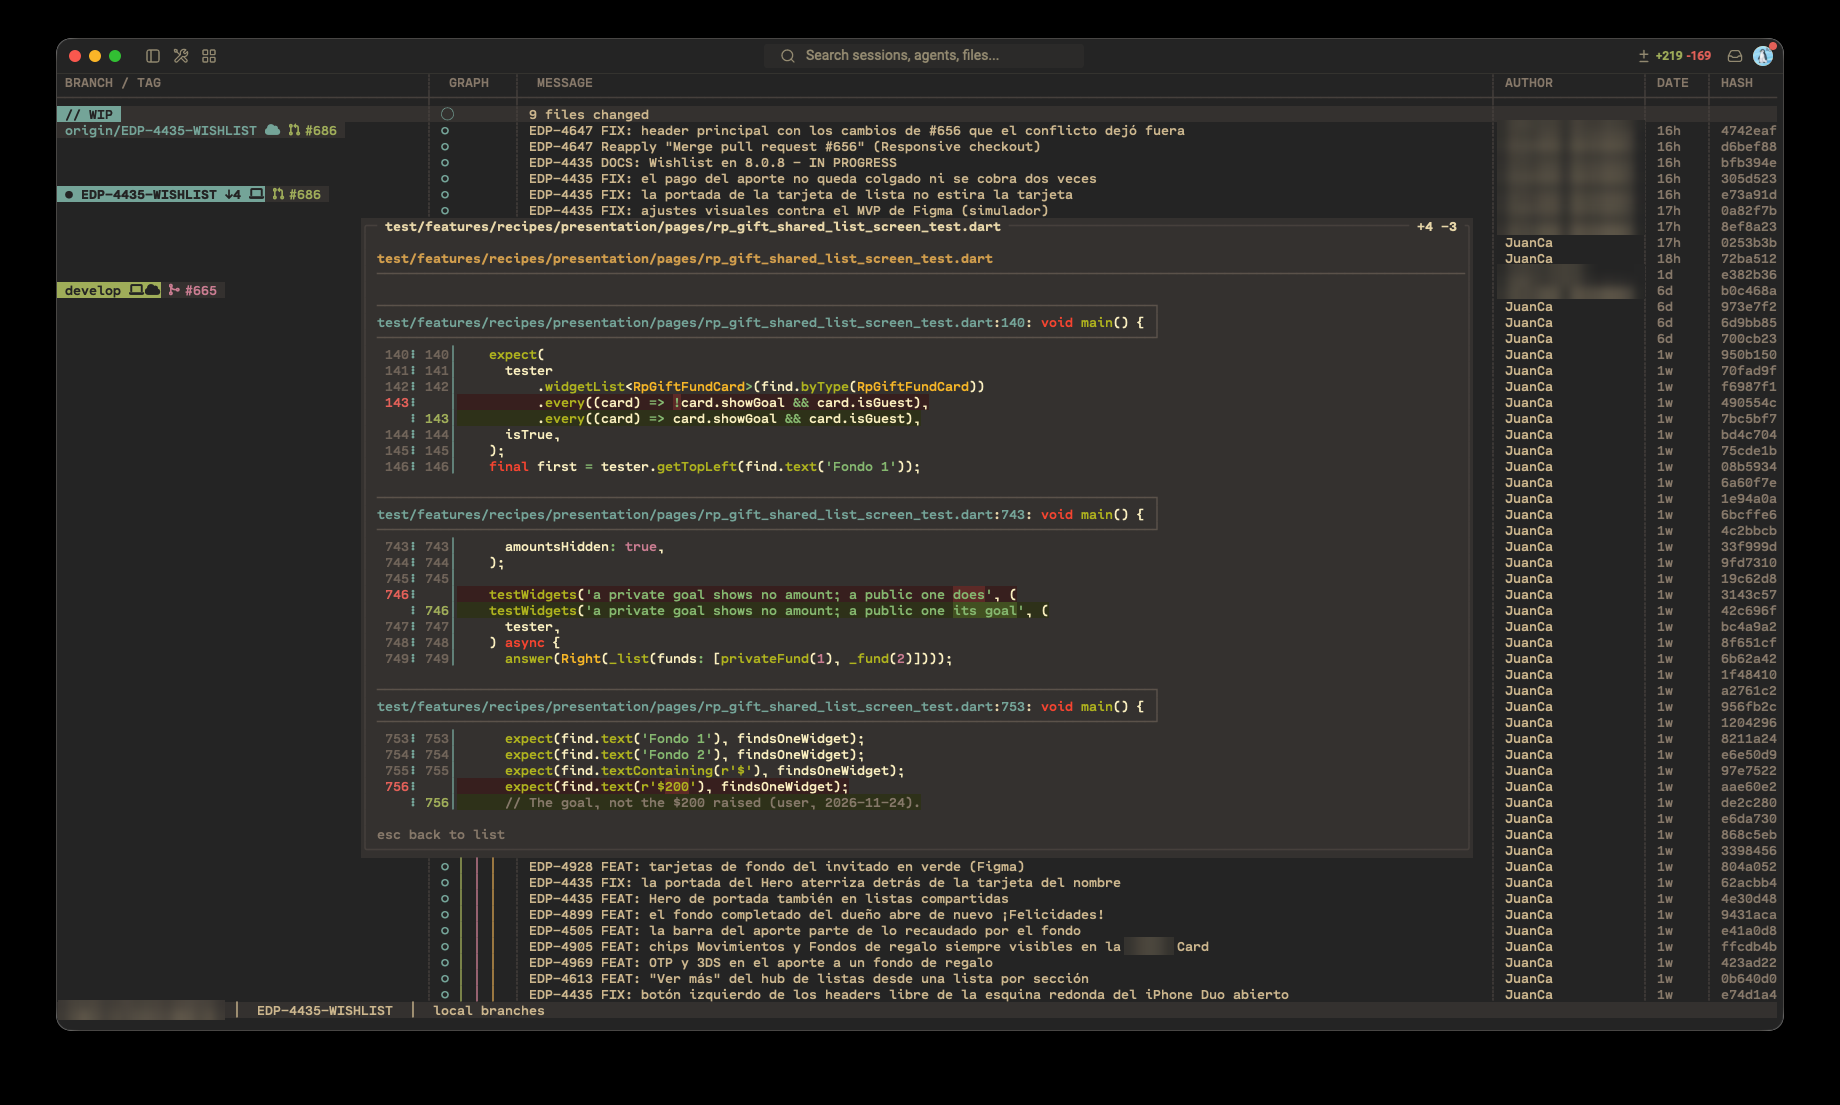
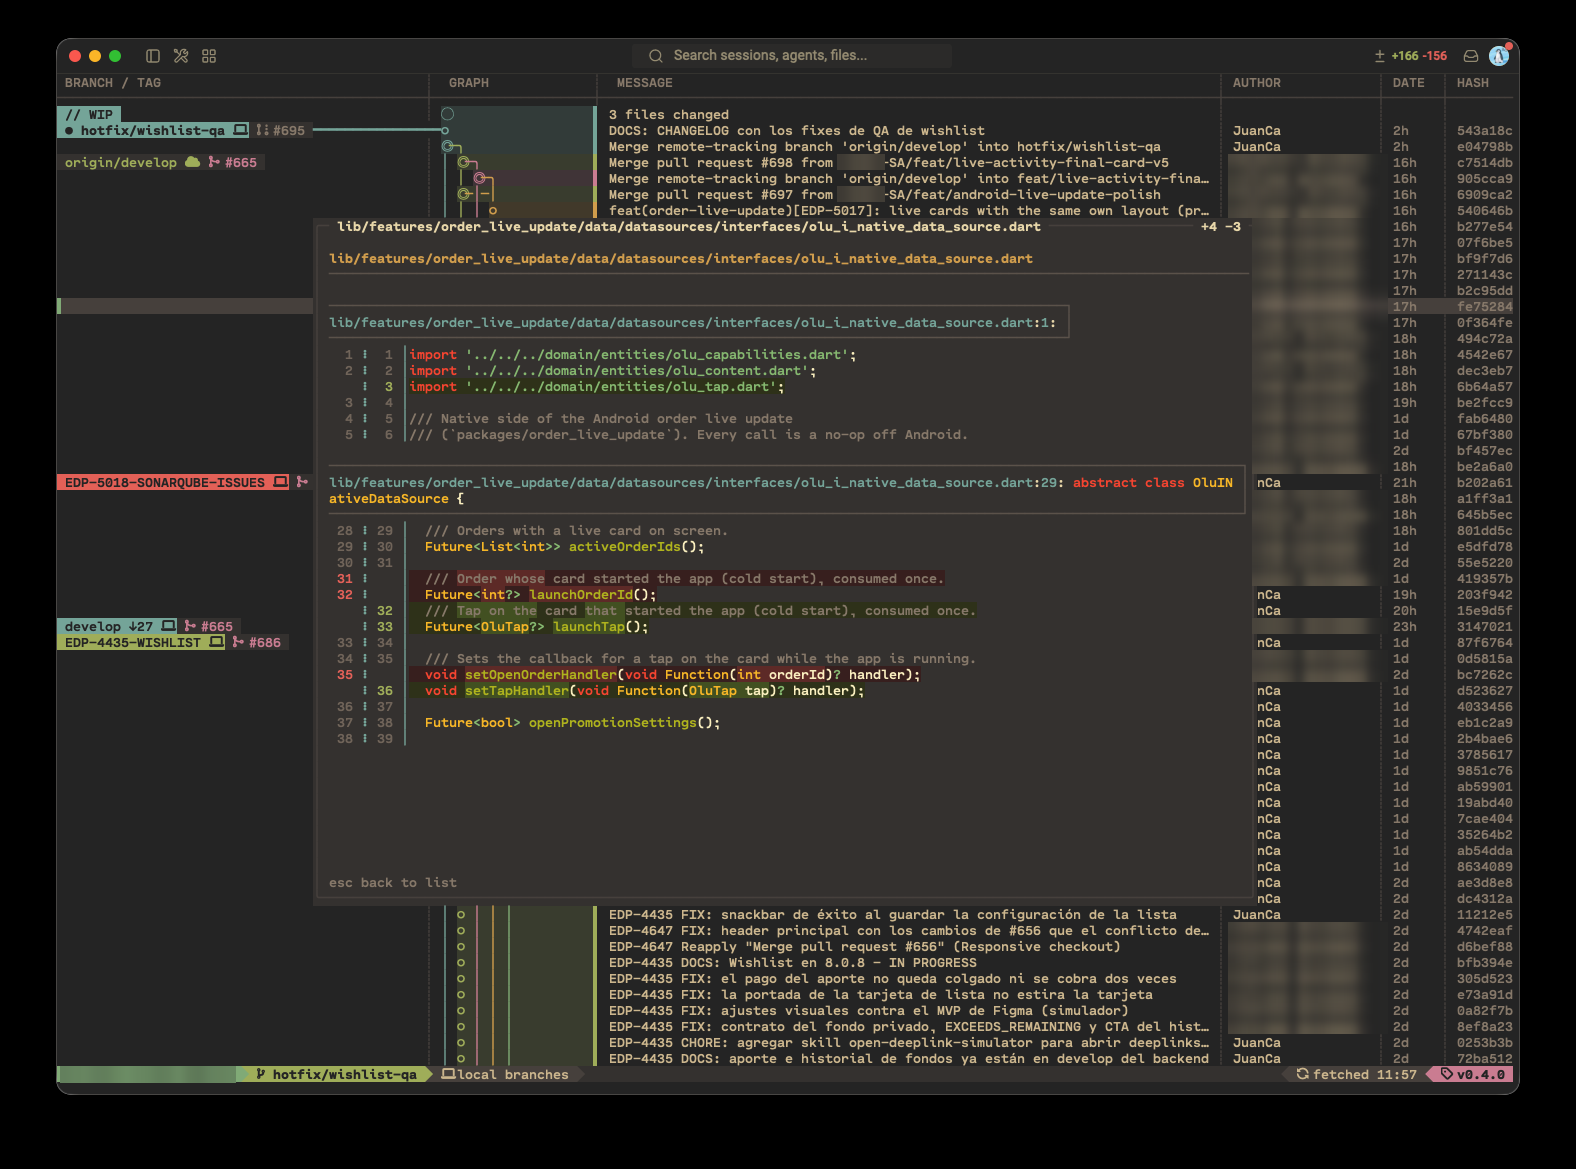
docs: new screenshots

Changed region(s): [[0.0311, 0.0308, 0.9949, 0.9538], [0.2176, 0.0923, 0.2487, 0.1231]]

diff --git a/README.md b/README.md
@@ -15,9 +15,10 @@ a colored commit graph, branch and tag labels in their own column, pull
 request status, author and date, all in one keyboard-driven view.
 </p>
 
+![Commit graph with lane tints, the current-branch connector and the Powerline status bar](docs/screenshots/graph.png)
+
 ![Diff preview of a changed file](docs/screenshots/diff-preview.png)
 
-![In-app help with keys, dialogs and the PR icon legend](docs/screenshots/help.png)
 
 ## Install
 
